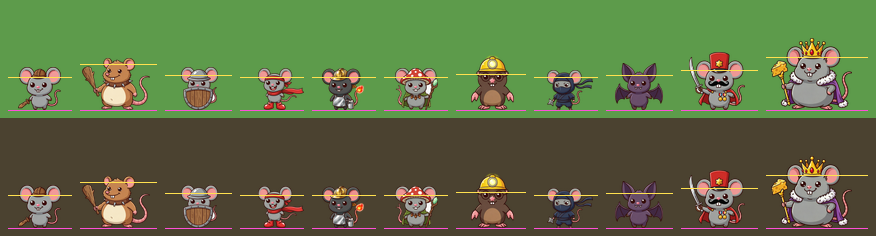
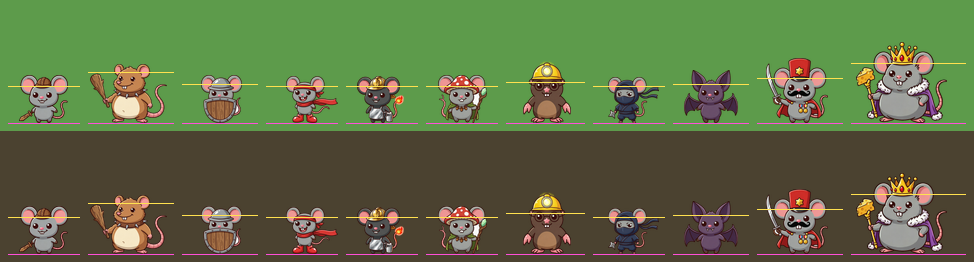
Покажи врагов готовыми картинками на дороге, в бестиарии, на карточке и в сценках
Картинка анфас стоит лапами на земле и не поворачивается; полоска здоровья
и метки — над фигурой по обрезанному кадру, у щитоносца на нарисованном щите
кружок со счётом. Мышь 36 точек (enemyFrame 72). Рисунок кодом — запасной.
Исправлено: походка затирала подъём до лап, холмик крота вырастал при подкопе.

Changed region(s): [[0.0, 0.1483, 1.0, 0.4746], [0.0, 0.6525, 1.0, 0.9788]]

diff --git a/src/entities/EnemyView.ts b/src/entities/EnemyView.ts
@@ -140,30 +140,6 @@ function addEnemyBody(scene: Phaser.Scene, type: EnemyTypeId): Phaser.GameObject
 }
 
 /**
- * Картинка щитоносца для портрета: готовое тело и поверх него щит, который на поле рисуется отдельно.
- * Собирается в свою текстуру один раз; null — арта тела нет.
- */
-function addShieldedArt(scene: Phaser.Scene, type: EnemyTypeId): Phaser.GameObjects.Image | null {
-  const ref = art.find(scene, artId.enemy(type));
-  if (!ref) return null;
-  const key = `portrait-art-${type}`;
-  const r = enemies.types[type].radius;
-  // Щит выступает вперёд дальше, чем тело: поле текстуры шире картинки.
-  const width = ref.width + r * 2;
-  if (!scene.textures.exists(key)) {
-    const texture = scene.textures.addDynamicTexture(key, Math.ceil(width * ref.scale), Math.ceil(ref.height * ref.scale));
-    if (!texture) return null;
-    const plate = scene.make.graphics({}, false);
-    drawShieldPlate(plate, r * 1.3, r);
-    plate.setScale(ref.scale);
-    texture.stamp(ref.key, ref.frame, texture.width / 2, texture.height / 2);
-    texture.draw(plate, texture.width / 2, texture.height / 2);
-    plate.destroy();
-  }
-  return scene.add.image(0, 0, key).setScale(1 / ref.scale);
-}
-
-/**
  * Портрет врага для бестиария и карточек: та же картинка, что на поле, вписанная в квадрат `size`.
  * Неизвестный враг (`known = false`) — силуэт.
  */
@@ -177,17 +153,19 @@ export function addEnemyPortrait(
 ): Phaser.GameObjects.Image {
   const [width, height] = enemyBodySize(type);
   const { radius: r, shield } = enemies.types[type];
-  // На поле щит — отдельная картинка, которая пропадает, когда он сломан; на портрете он нарисован вместе с телом.
+  // У рисунка кодом щит на поле — отдельная картинка, которая пропадает, когда он сломан; на портрете он нарисован вместе с телом.
+  // На готовой картинке щит уже есть.
+  const ref = art.find(scene, artId.enemy(type));
   const image =
-    shield > 0
-      ? (addShieldedArt(scene, type) ??
-        addBakedShape(scene, `portrait-${type}`, width, height, (g) => {
+    shield > 0 && !ref
+      ? addBakedShape(scene, `portrait-${type}`, width, height, (g) => {
           drawEnemyBody(g, type);
           drawShieldPlate(g, r * 1.3, r);
-        }))
+        })
       : addEnemyBody(scene, type);
   image.setPosition(x, y);
-  image.setScale(image.scale * Math.min(size / width, size / height));
+  const [shownW, shownH] = ref ? [ref.width, ref.height] : [width, height];
+  image.setScale(image.scale * Math.min(size / shownW, size / shownH));
   return known ? image : image.setTintFill(COLORS.line);
 }
 
@@ -199,7 +177,12 @@ export function addEnemyPortrait(
  */
 export class EnemyView extends Phaser.GameObjects.Container {
   private readonly radius: number;
-  /** Поворачивается по ходу движения; полоска здоровья остаётся горизонтальной. */
+  /**
+   * Где фигура относительно точки дороги: лапы, верх и середина по высоте, полуширина. Готовая картинка стоит анфас
+   * лапами на земле (`upright`); рисунок кодом — мышь сверху вокруг точки дороги.
+   */
+  private readonly figure: { upright: boolean; feetY: number; top: number; centerY: number; half: number };
+  /** Поворачивается по ходу движения (только рисунок кодом); полоска здоровья остаётся горизонтальной. */
   private readonly turning: Phaser.GameObjects.Container;
   private readonly gait: Phaser.GameObjects.Container;
   private readonly react: Phaser.GameObjects.Container;
@@ -223,7 +206,7 @@ export class EnemyView extends Phaser.GameObjects.Container {
   private shownShield = -1;
   private shownStatus = '';
   /** Холмик на месте врага, ушедшего под землю; только у тех, кто умеет копать. */
-  private readonly mound: Phaser.GameObjects.Image | null = null;
+  private readonly mound: Phaser.GameObjects.Container | null = null;
   private shownBurrowed = false;
 
   constructor(scene: Phaser.Scene, x: number, y: number, enemy: Enemy) {
@@ -233,19 +216,33 @@ export class EnemyView extends Phaser.GameObjects.Container {
     this.radius = r;
     ensureTextures(scene);
 
-    const body = addEnemyBody(scene, enemy.type);
-    this.flash = addEnemyBody(scene, enemy.type).setTintFill(COLORS.flash).setAlpha(0);
+    const ref = art.find(scene, artId.enemy(enemy.type));
+    const { feet, shieldBadge, shieldY } = ENEMY_FEEL.upright;
+    // Слои движения вращаются и сжимаются вокруг лап: у картинки анфас они ниже точки дороги, у мыши сверху — в ней.
+    // Фигура стоит в своей картинке по нижнему краю, сверху и с боков — прозрачное поле: её рост — по обрезанному кадру атласа.
+    const frame = ref ? scene.textures.getFrame(ref.key, ref.frame) : null;
+    const tall = ref && frame ? (ref.height * frame.height) / frame.realHeight : 0;
+    const wide = ref && frame ? (ref.width * frame.width) / frame.realWidth : 0;
+    this.figure = ref
+      ? { upright: true, feetY: ref.height * feet, top: ref.height * feet - tall, centerY: ref.height * feet - tall / 2, half: wide / 2 }
+      : { upright: false, feetY: 0, top: -r, centerY: 0, half: r };
+    const { feetY } = this.figure;
+    const bodyY = ref ? -ref.height / 2 : 0;
+    const body = addEnemyBody(scene, enemy.type).setY(bodyY);
+    this.flash = addEnemyBody(scene, enemy.type).setY(bodyY).setTintFill(COLORS.flash).setAlpha(0);
     this.turning = scene.add.container(0, 0, [body, this.flash]);
     this.react = scene.add.container(0, 0, [this.turning]);
-    this.gait = scene.add.container(0, 0, [this.react]);
+    this.gait = scene.add.container(0, feetY, [this.react]);
     const config = enemies.types[enemy.type];
     const shadow = MOTION_FEEL.shadow.enemy;
-    this.shadow = addShadow(scene, 0, r * shadow.y, r * shadow.width, r * shadow.height);
+    this.shadow = ref
+      ? addShadow(scene, 0, feetY, ref.width * shadow.artWidth, ref.height * shadow.artHeight)
+      : addShadow(scene, 0, r * shadow.y, r * shadow.width, r * shadow.height);
     this.steps = [config.motion === 'hover' ? hover(scene, this.gait) : waddle(scene, this.gait, config.speed)];
     spawn(scene, this.react);
 
     if (enemies.types[enemy.type].burrow) {
-      this.mound = addBakedShape(scene, `mound-${enemy.type}`, r * 3.2, r * 2.4, (g) => {
+      const mound = addBakedShape(scene, `mound-${enemy.type}`, r * 3.2, r * 2.4, (g) => {
         g.fillStyle(COLORS.moundDark);
         g.fillEllipse(0, 0, r * 3, r * 2.2);
         g.fillStyle(COLORS.mound);
@@ -254,17 +251,23 @@ export class EnemyView extends Phaser.GameObjects.Container {
         g.fillCircle(-r * 0.5, -r * 0.2, r * 0.18);
         g.fillCircle(r * 0.4, r * 0.25, r * 0.22);
         g.fillCircle(r * 0.2, -r * 0.4, r * 0.14);
-      }).setVisible(false);
+      });
+      // В контейнере: подкоп меняет масштаб холмика от 0 до 1, а у запечённой картинки свой масштаб.
+      this.mound = scene.add.container(0, feetY, [mound]).setVisible(false);
     }
 
     if (enemy.shield > 0) {
-      const plate = addBakedShape(scene, `shield-${enemy.type}`, r, r * 2, (g) => drawShieldPlate(g, 0, r));
-      // Сколько попаданий щит ещё выдержит.
+      // Сколько попаданий щит ещё выдержит. На готовой картинке щит уже нарисован — поверх него только кружок со счётом.
+      const plate = ref
+        ? scene.add.image(0, 0, Texture.dot).setDisplaySize(shieldBadge, shieldBadge).setTint(COLORS.shield)
+        : addBakedShape(scene, `shield-${enemy.type}`, r, r * 2, (g) => drawShieldPlate(g, 0, r));
       this.shieldCount = scene.add
         .text(0, 0, '', { fontFamily: FONTS.body, fontSize: '9px', color: TEXT_COLORS.dark })
         .setOrigin(0.5);
-      this.shield = scene.add.container(r * 1.3, 0, [plate, this.shieldCount]);
-      this.turning.add(this.shield);
+      this.shield = ref
+        ? scene.add.container(0, -ref.height * shieldY, [plate, this.shieldCount])
+        : scene.add.container(r * 1.3, 0, [plate, this.shieldCount]);
+      (ref ? this.react : this.turning).add(this.shield);
     }
 
     this.bar = scene.add.graphics();
@@ -281,7 +284,8 @@ export class EnemyView extends Phaser.GameObjects.Container {
    */
   sync(enemy: Enemy, x: number, y: number, angle: number, burrowed = false): void {
     this.setPosition(x, y);
-    this.turning.setRotation(angle);
+    // Картинка анфас смотрит на зрителя и по ходу не поворачивается.
+    if (!this.figure.upright) this.turning.setRotation(angle);
     this.heading = angle;
     if (burrowed !== this.shownBurrowed) {
       this.shownBurrowed = burrowed;
@@ -303,7 +307,7 @@ export class EnemyView extends Phaser.GameObjects.Container {
     if (enemy.hp === this.shownHp) return;
     this.shownHp = enemy.hp;
     const width = this.radius * 2.4;
-    const top = -this.radius - ENEMY_FEEL.hpBarGap - ENEMY_FEEL.hpBarHeight;
+    const top = this.figure.top - ENEMY_FEEL.hpBarGap - ENEMY_FEEL.hpBarHeight;
     this.bar.clear();
     this.bar.fillStyle(COLORS.hpBack, ENEMY_FEEL.hpBackAlpha);
     this.bar.fillRect(-width / 2, top, width, ENEMY_FEEL.hpBarHeight);
@@ -323,15 +327,16 @@ export class EnemyView extends Phaser.GameObjects.Container {
     if (status === this.shownStatus) return;
     this.shownStatus = status;
 
-    const r = this.radius;
+    const { top, centerY, half } = this.figure;
+    const r = Math.max(this.radius, half * 0.8);
     if (slowed) {
-      this.slowRing ??= this.addMark(Texture.ring, 0, 0, (r + STATUS_FEEL.ringGap) * 2);
+      this.slowRing ??= this.addMark(Texture.ring, 0, centerY, (r + STATUS_FEEL.ringGap) * 2);
       this.slowRing.setTint(elementColor(frozen ? 'ice' : 'water'));
     }
     this.slowRing?.setVisible(slowed);
-    if (burning) this.burnDot ??= this.addMark(Texture.dot, -r * 0.6, -r, STATUS_FEEL.dotRadius * 2).setTint(elementColor('fire'));
+    if (burning) this.burnDot ??= this.addMark(Texture.dot, -r * 0.6, top, STATUS_FEEL.dotRadius * 2).setTint(elementColor('fire'));
     this.burnDot?.setVisible(burning);
-    if (poisoned) this.poisonDot ??= this.addMark(Texture.dot, r * 0.6, -r, STATUS_FEEL.dotRadius * 2).setTint(elementColor('swamp'));
+    if (poisoned) this.poisonDot ??= this.addMark(Texture.dot, r * 0.6, top, STATUS_FEEL.dotRadius * 2).setTint(elementColor('swamp'));
     this.poisonDot?.setVisible(poisoned);
   }
 

diff --git a/src/entities/motion.ts b/src/entities/motion.ts
@@ -47,17 +47,20 @@ export function breathe(scene: Phaser.Scene, target: Target): Phaser.Tweens.Twee
 export function waddle(scene: Phaser.Scene, target: Target, speed: number): Phaser.Tweens.Tween {
   const { angle, hop, stepPx, minStepMs, maxStepMs } = MOTION_FEEL.waddle;
   const stepMs = Phaser.Math.Clamp((stepPx / Math.max(speed, 1)) * 1000, minStepMs, maxStepMs);
-  // Наклон туда и обратно — два шага; подскок — на каждом шаге, выше всего посередине переката.
+  // Наклон туда и обратно — два шага; подскок — на каждом шаге, выше всего посередине переката. Подскок — от того места,
+  // где цель стоит (у картинки анфас — точка лап).
+  const baseY = target.y;
   return looped(scene, stepMs * 2, (wave, turn) => {
     target.setRotation(angle * wave);
-    target.setY(-hop * Math.abs(Math.cos(turn * Math.PI * 2)));
+    target.setY(baseY - hop * Math.abs(Math.cos(turn * Math.PI * 2)));
   });
 }
 
 /** Полёт: плавное качание вверх-вниз без наклона. */
 export function hover(scene: Phaser.Scene, target: Target): Phaser.Tweens.Tween {
   const { periodMs, amp } = MOTION_FEEL.hover;
-  return looped(scene, periodMs, (wave) => void target.setY(amp * wave));
+  const baseY = target.y;
+  return looped(scene, periodMs, (wave) => void target.setY(baseY + amp * wave));
 }
 
 /** Подкоп: `body` уходит в землю (`down`) или выходит из неё, холмик `mound` и тень `shadow` — наоборот. */

diff --git a/src/feel.ts b/src/feel.ts
@@ -46,13 +46,14 @@ export const MOTION_FEEL = {
   spawn: { ms: 280, ease: 'Back.easeOut' },
   /**
    * Тень — овал под ногами, рисуется кодом. У кота размеры в логических точках, стоит она под лапами;
-   * у врага — в долях радиуса, `y` — сдвиг вниз от центра.
+   * у врага, нарисованного кодом, — в долях радиуса, `y` — сдвиг вниз от центра; у врага готовой картинкой стоит под лапами,
+   * размеры — `artWidth`, `artHeight` в долях картинки.
    */
   shadow: {
     color: 0x000000,
     alpha: 0.28,
     cat: { width: 40, height: 9 },
-    enemy: { width: 2.3, height: 1.2, y: 0.55 },
+    enemy: { width: 2.3, height: 1.2, y: 0.55, artWidth: 0.62, artHeight: 0.16 },
   },
 };
 
@@ -161,6 +162,11 @@ export const ENEMY_FEEL = {
   hpBarHeight: 4,
   hpBarGap: 5,
   hpBackAlpha: 0.5,
+  /**
+   * Враг готовой картинкой стоит анфас и не поворачивается: лапы ниже точки дороги на `feet` высоты картинки,
+   * счётчик щита — кружок `shieldBadge` (диаметр) на высоте `shieldY` от лап в долях картинки.
+   */
+  upright: { feet: 0.3, shieldBadge: 13, shieldY: 0.35 },
   /** Враг прошёл в ворота: поле вздрагивает. */
   leakShakeMs: 140,
   leakShakeIntensity: 0.006,

diff --git a/src/scenes/StoryScene.ts b/src/scenes/StoryScene.ts
@@ -2,7 +2,7 @@ import Phaser from 'phaser';
 import { art } from '../art';
 import { audio } from '../audio';
 import { story, type StoryScene as StoryData, type StorySpeaker } from '../data';
-import { drawEnemyBody } from '../entities/EnemyView';
+import { addEnemyPortrait, drawEnemyBody } from '../entities/EnemyView';
 import { HeroView } from '../entities/HeroView';
 import { STORY_FEEL } from '../feel';
 import { t, type StringKey } from '../i18n';
@@ -144,9 +144,11 @@ export class StoryScene extends Phaser.Scene {
       hero.setReady(true);
       return hero;
     }
-    // Мыши нарисованы видом сверху, носом вправо.
+    // Своего портрета нет — картинка врага с поля; а пока нет и её — мышь, нарисованная видом сверху, носом вправо.
+    const type = speaker === 'king' ? 'king' : 'mouse';
+    if (art.find(this, artId.enemy(type))) return addEnemyPortrait(this, type, GAME_W / 2, portraitY, STORY.enemyPortraitSize);
     const g = this.add.graphics({ x: GAME_W / 2, y: portraitY });
-    drawEnemyBody(g, speaker === 'king' ? 'king' : 'mouse');
+    drawEnemyBody(g, type);
     return g.setScale(speaker === 'king' ? STORY_FEEL.kingScale : STORY_FEEL.mouseScale);
   }
 

diff --git a/src/layout.ts b/src/layout.ts
@@ -171,6 +171,8 @@ export function gearFishCenter(): [number, number] {
 // Сценка: портрет говорящего, его имя, плашка с репликой, подсказка и кнопка «Пропустить» в углу.
 export const STORY = {
   portraitY: 210,
+  /** Сторона квадрата, в который вписан портрет мыши или короля, когда своего портрета нет, а картинка врага есть: крупнее — мыльно. */
+  enemyPortraitSize: 84,
   nameY: 336,
   panelY: 430,
   panelW: 328,

diff --git a/docs/ART_LIST.md b/docs/ART_LIST.md
@@ -40,17 +40,17 @@
 
 | Файл | Размер | Что нарисовано | Готово |
 | --- | --- | --- | --- |
-| `enemies/mouse.png` | 64×64 | Мышь | да |
-| `enemies/rat.png` | 77×77 | Крыса | да |
-| `enemies/shield.png` | 67×67 | Мышь-щитоносец | да |
-| `enemies/boots.png` | 64×64 | Мышь в железных сапогах | да |
-| `enemies/fire.png` | 64×64 | Пожарная мышь | да |
-| `enemies/shaman.png` | 64×64 | Мышь-шаман | да |
-| `enemies/mole.png` | 70×70 | Крот | да |
-| `enemies/ninja.png` | 64×64 | Мышь-ниндзя | да |
-| `enemies/bat.png` | 67×67 | Летучая мышь | да |
-| `enemies/commander.png` | 77×77 | Крыса-командир | да |
-| `enemies/king.png` | 102×102 | Крысиный король | да |
+| `enemies/mouse.png` | 72×72 | Мышь | да |
+| `enemies/rat.png` | 86×86 | Крыса | да |
+| `enemies/shield.png` | 76×76 | Мышь-щитоносец | да |
+| `enemies/boots.png` | 72×72 | Мышь в железных сапогах | да |
+| `enemies/fire.png` | 72×72 | Пожарная мышь | да |
+| `enemies/shaman.png` | 72×72 | Мышь-шаман | да |
+| `enemies/mole.png` | 79×79 | Крот | да |
+| `enemies/ninja.png` | 72×72 | Мышь-ниндзя | да |
+| `enemies/bat.png` | 76×76 | Летучая мышь | да |
+| `enemies/commander.png` | 86×86 | Крыса-командир | да |
+| `enemies/king.png` | 115×115 | Крысиный король | да |
 
 ## Герой (0 из 1)
 
